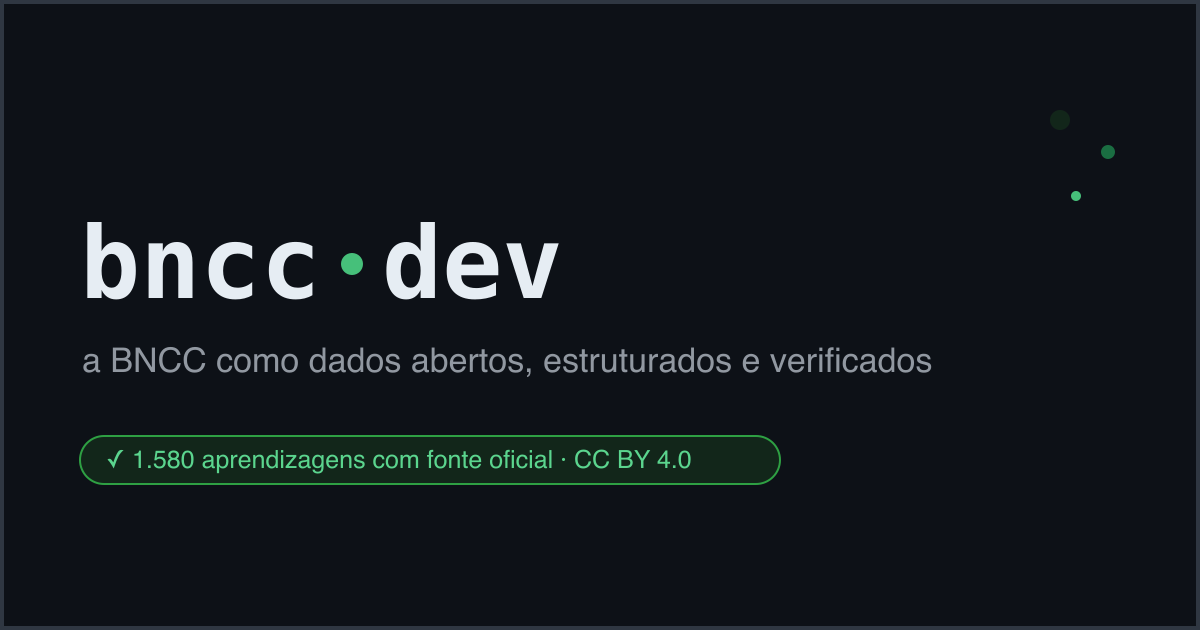
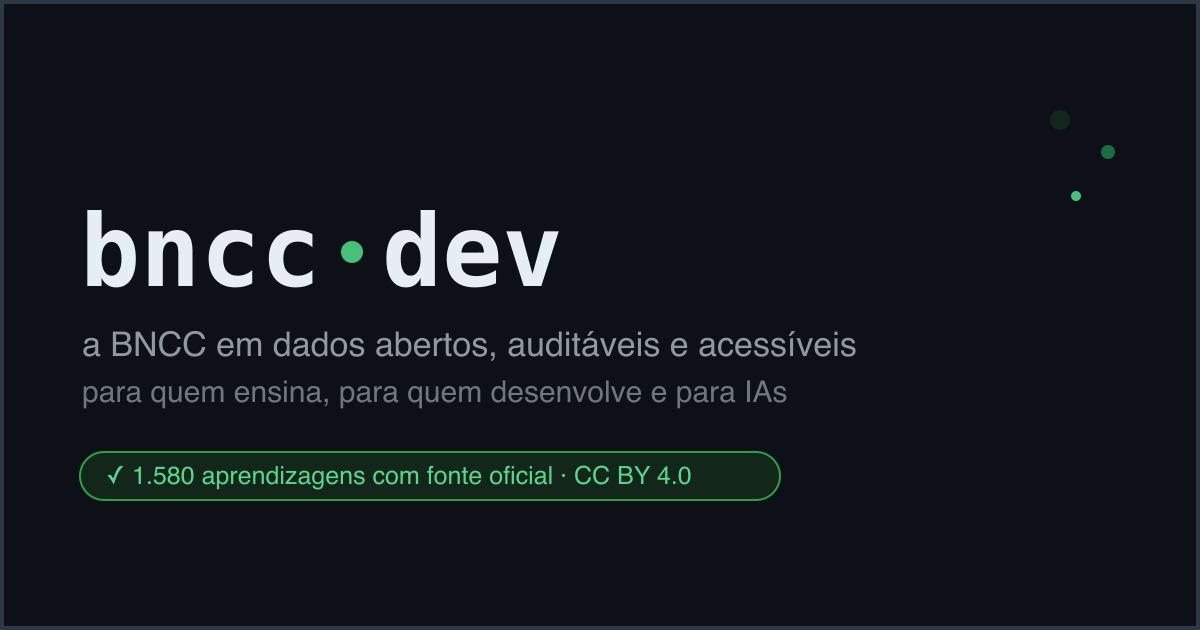
fix(site): substitui o texto do hero antigo pelo novo em todas as aparições
"a BNCC como dados abertos, estruturados e verificados" vira "a BNCC em
dados abertos, auditáveis e acessíveis" (title da home, rodapé, og:image e
alt, WebSite JSON-LD, llms.txt); o hero da home e a arte OG ganham a linha
"para quem ensina, para quem desenvolve e para IAs".

Claude-Session: https://claude.ai/code/session_01LG6BtRC9V4KY5XUX1vrdQy

Changed region(s): [[0.0617, 0.5127, 0.7708, 0.8143], [0.0617, 0.3317, 0.4625, 0.4825]]

diff --git a/site/src/pages/llms.txt.ts b/site/src/pages/llms.txt.ts
@@ -6,7 +6,7 @@ export const GET: APIRoute = () => {
   const v = versao();
   const corpo = `# bncc.dev
 
-> A BNCC (Base Nacional Comum Curricular brasileira) como dados abertos, estruturados e verificados: ${s.total.toLocaleString('pt-BR')} aprendizagens com fonte oficial (página do documento homologado do MEC). Versão dos dados: ${v.data_version}. Licença dos dados: CC BY 4.0; código: MIT. Tudo aberto, sem API key e sem cadastro.
+> A BNCC (Base Nacional Comum Curricular brasileira) em dados abertos, auditáveis e acessíveis: ${s.total.toLocaleString('pt-BR')} aprendizagens com fonte oficial (página do documento homologado do MEC). Versão dos dados: ${v.data_version}. Licença dos dados: CC BY 4.0; código: MIT. Tudo aberto, sem API key e sem cadastro.
 
 Regras para agentes:
 - Nunca invente códigos ou textos de habilidade. Se uma página não existe em bncc.dev, o código não existe na BNCC (a numeração oficial tem lacunas legítimas).

diff --git a/site/src/lib/dados.ts b/site/src/lib/dados.ts
@@ -141,7 +141,7 @@ export function websiteJsonLd() {
     name: 'bncc.dev',
     url: SITE,
     inLanguage: 'pt-BR',
-    description: 'A BNCC como dados abertos, estruturados e verificados.',
+    description: 'A BNCC em dados abertos, auditáveis e acessíveis. Para quem ensina, para quem desenvolve e para IAs.',
     publisher: organizacaoJsonLd(),
     potentialAction: {
       '@type': 'SearchAction',
